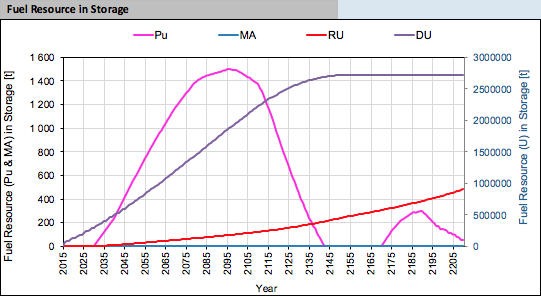
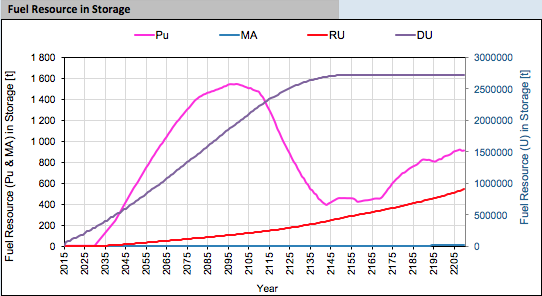
add new figure (shorter cooling) and change the text accordingly

diff --git a/EG23.tex b/EG23.tex
@@ -261,7 +261,7 @@ The implementation properties of the cooling storage can be found in table
     \hline
     \multicolumn{2}{l}{Cooling Implementation}  \\
     \hline
-    Residence Time [month]   &  84  \\
+    Residence Time [month]   &  81  \\
     \hline
     \end{tabular}
     \caption{Cooling facilities core implementation.}
@@ -269,11 +269,11 @@ The implementation properties of the cooling storage can be found in table
 \end{table}
 
 The specified cooling time is supposed to be 60 months and a year each for
-reprocessing and fabrication.i The cooling time has been set to 84 months
+reprocessing and fabrication. The cooling time has been set to 81 months
 because neither separation nor fabrication model any processing time. However, a
 time step is required to send the flows from the cooling to the separation and
 from the separation to the fabrication and then from the fabrication to the
-reactor. In those Cyclus simulations, the minimun time out of reactor is 87 months.
+reactor. In those Cyclus simulations, the minimun time out of reactor is 84 months.
 
 \subsection{Separation}
 
@@ -416,7 +416,7 @@ is used to compute a mixing ratio of the input streams that matches the target
 weight.
 
 The SFR fuel fabrication facilities are deployed as a rate of 1 for every 10
-SFRs.  As the fuel composition and annual material flow change slightly between
+SFRs. As the fuel composition and annual material flow change slightly between
 SFR 1 and 2, the specifications between fabrication facilities are also slightly
 different. The details of all fuel fabrication facility characteristics are
 summarized in Table \ref{tab:fuelfab_1}.
@@ -484,33 +484,35 @@ fuel drops below $3000$ MTHM/yr.
  
 MOX spent fuel production by the 2 different SFR types roughly follows the
 loading of fresh fuel (see Figure \ref{fig:ARR_1}). Because the reprocessing
-facilities are greedy, reprocessing all used fuel available, there is no SFR
-spent fuel waiting for reprocessing because it is directly reprocessed after
-cooling. The reprocessing capacity of SFR fuel are large enough to prevent any
-SFR fuel accumulation in ``UNF Waiting for Reprocessing'' (see Figure
-\ref{fig:FWR_1}).
+facilities are greedy, reprocessing all used fuel available, there is almost no
+SFR spent fuel waiting for reprocessing: most of the SFR spent fuel is directly
+reprocessed after cooling. The reprocessing capacity of SFR fuel are large
+enough to limit the SFR fuel accumulation in ``UNF Waiting for Reprocessing''
+(see Figure \ref{fig:FWR_1}).
 
 Before the start of the first SFR, the reprocessing capacities of the LWR fuel
 is higher than the demand on plutonium to fabricate the MOX fuel, creating an
-accumulation of plutonium prior to 2100, as shown in the Figure
-\ref{fig:FIS_1}. After 2100, with the decommissioning of the LWRs and the
-consequent expansion of SFRs, less LWRs used fuel is produced, allowing the
-reduction of the inventory of plutonium. The reprocessing capacities of the SFR
-used fuel are well adapted to the demand, but the plutonium storage experiences
-a small accumulation just before the SFRs switch to lower breeding ratio.
+accumulation of plutonium prior to 2100, as shown in the Figure \ref{fig:FIS_1}.
+After 2100, with the decommissioning of the LWRs and the consequent expansion of
+SFRs, less LWRs used fuel is produced, allowing the reduction of the inventory
+of plutonium. The reprocessing capacities of the SFR used fuel are adapted to
+the demand, stabilizing the inventory of plutonium around $400~$t. The plutonium
+storage slightly rises just before the SFRs switch to lower breeding ratio.
  
 
 \subsection{Case 2: On-demand Separations}
 
 The limitation added on the reprocessing capacities (Figure \ref{fig:ARR_2})
-results in a reduction of the inventory of separated plutonium. Indeed, as seen in Figure
-\ref{fig:ARR_2}, the reprocessing follows the
-plutonium need of the SFR fuel fabrication more closely than in case 1: the accumulation of plutonium is
-limited to $\sim500~t$ (Figure \ref{fig:FIS_2}) versus $\sim1500~t$ in the first
-case. Nevertheless, one can still observe a large plutonium accumulation spike
-between 2100 and 2145 that could be avoided with a better reprocessing capacity
-deployment, although such deployments result in reprocessing facilities that
-operate at full capacity for only short periods of time.
+results in a reduction of the inventory of separated plutonium. Indeed, as seen
+in Figure \ref{fig:ARR_2}, the reprocessing follows the plutonium need of the
+SFR fuel fabrication more closely than in case 1: the accumulation of plutonium
+is limited to $\sim750~t$ (Figure \ref{fig:FIS_2}) versus $\sim1500~t$ in the
+first case. The deployment of the reprocessing capacity before 2100 seems to be
+correct (low amount plutonium plutonium). Nevertheless one can still observe
+the two strong phases of plutonium accumulation, 2110-2135 and 2180-2190 that
+could have been avoided with a better reprocessing capacity deployment, although
+such deployments result in reprocessing facilities that operate at full capacity
+for only short periods of time.
 
 \begin{figure}[h!]
     \centering
@@ -536,9 +538,7 @@ deployment, more LWR spent fuel accumulates waiting for reprocessing with a
 quick drop starting around year 2090 as stored up plutonium is used in the first
 wave of SFR deployments replacing aging LWRs (see Figure \ref{fig:FWR_2}). Some
 of SFR fuel also accumulates waiting for reprocessing, but it eventually
-decreases, showing a well designed SFR deployment schedule that reaches an
-comfortable equilibrium generating plutonium at the same rate it is being
-recycled.
+decreases.
 
 \section{Summary}
 
